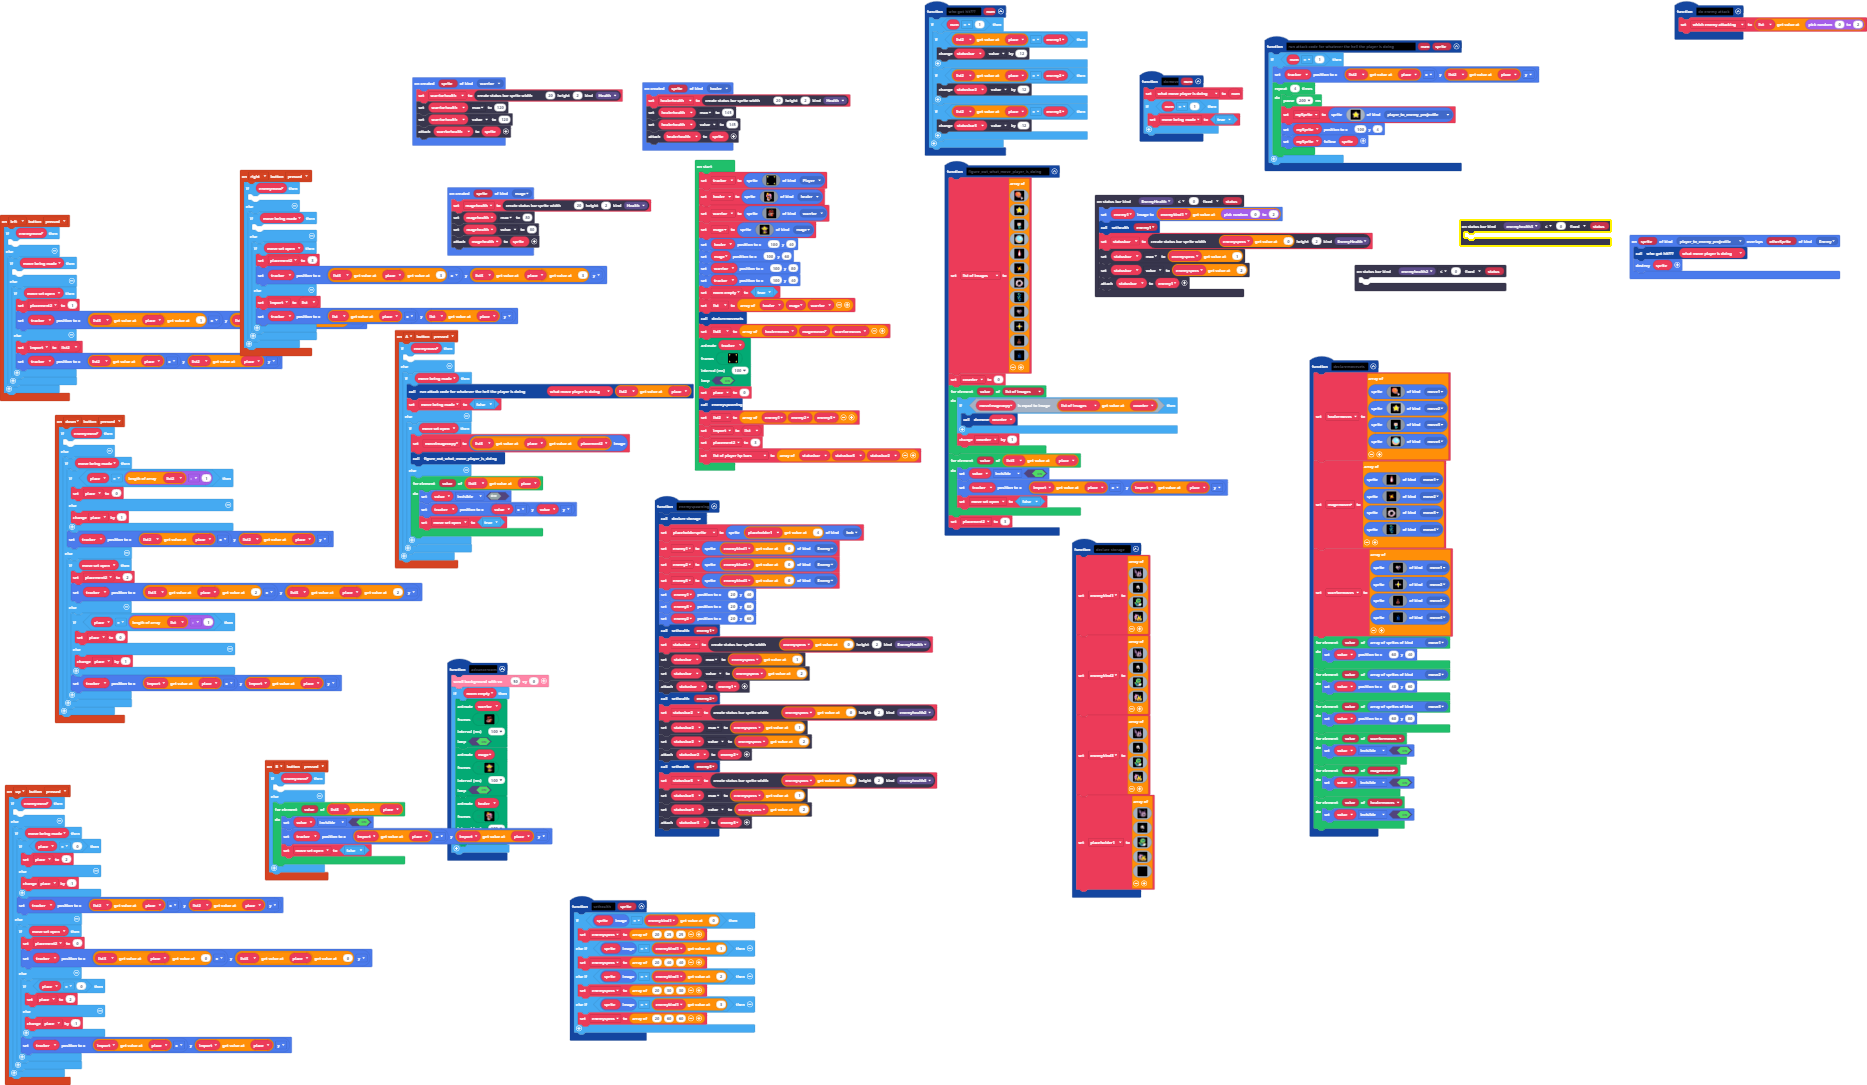
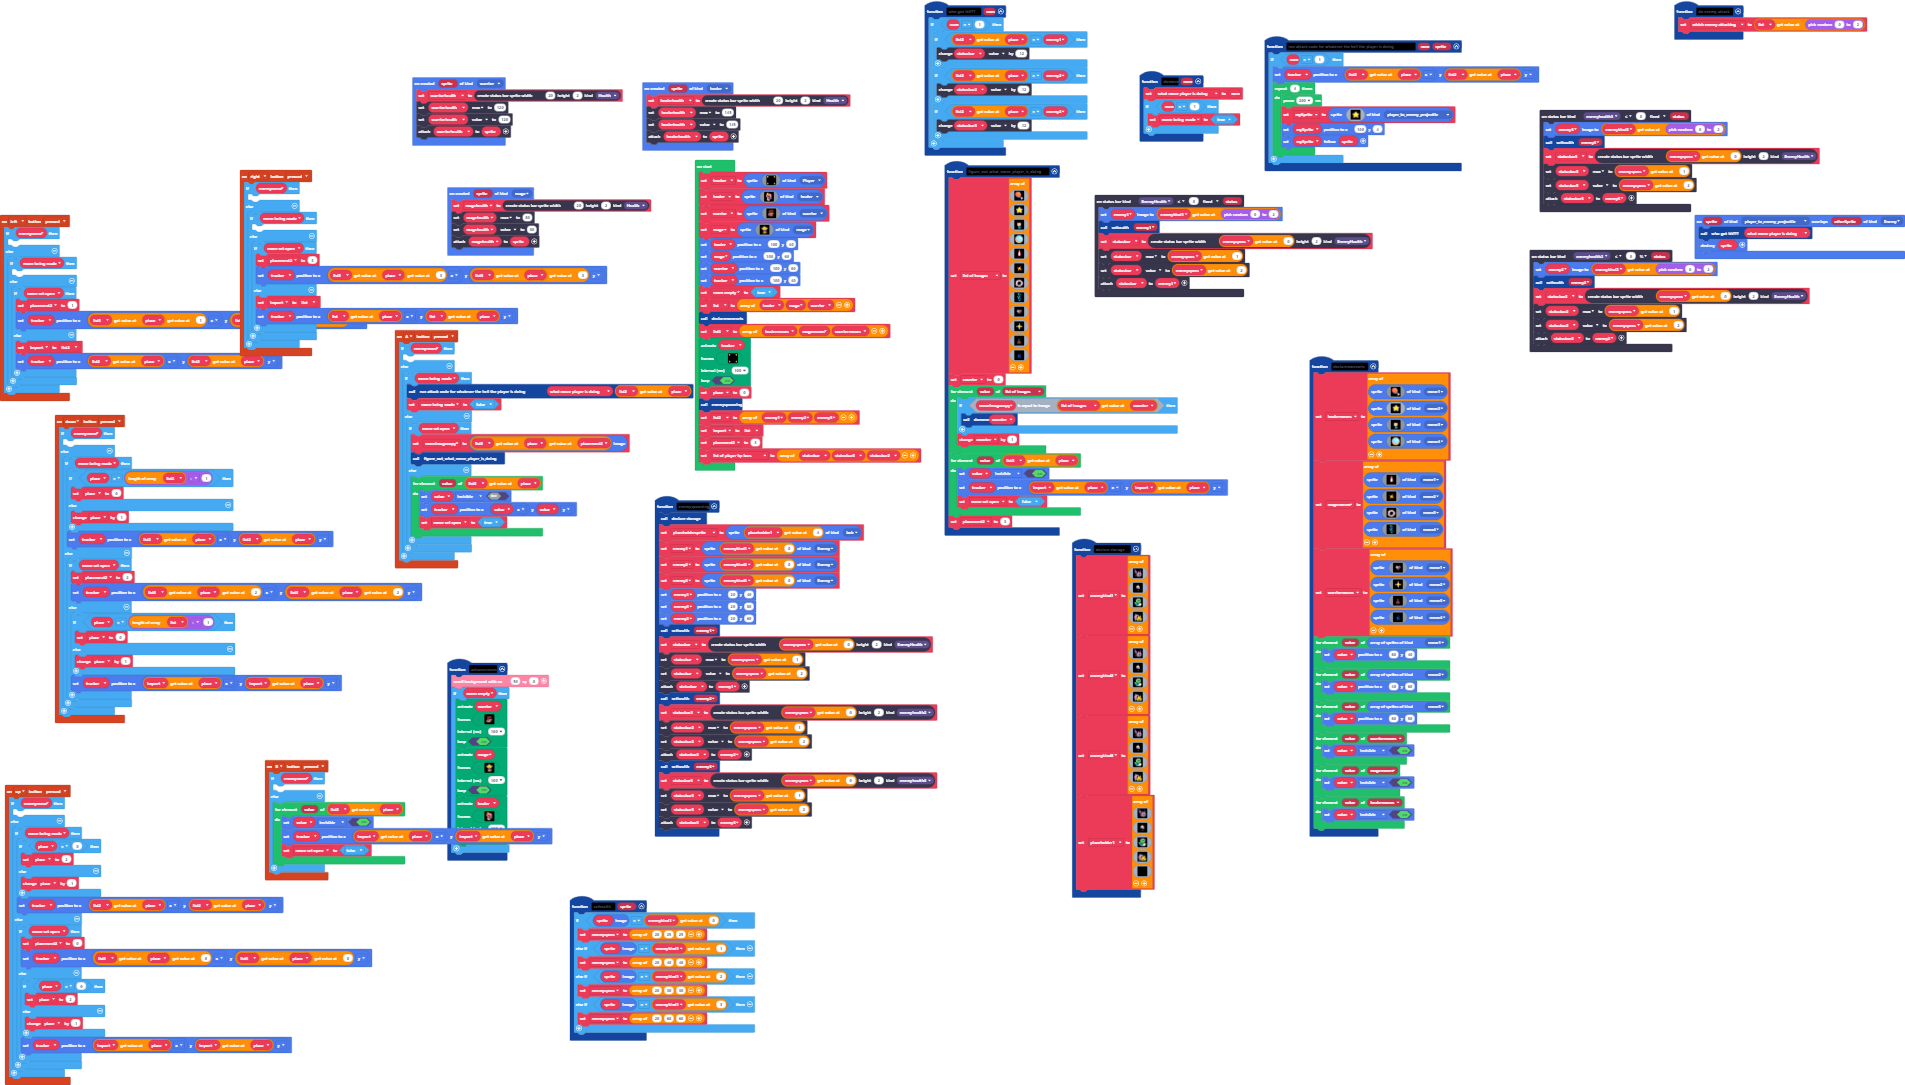
Update main.blocks, main.ts

diff --git a/main.ts b/main.ts
@@ -950,7 +950,12 @@ function who_got_hit (num: number) {
     }
 }
 statusbars.onStatusReached(StatusBarKind.enemyhealth3, statusbars.StatusComparison.LTE, statusbars.ComparisonType.Fixed, 0, function (status) {
-	
+    enemy3.setImage(enemykind3[randint(0, 2)])
+    sethealth(enemy3)
+    statusbar3 = statusbars.create(enemyspecs[0], 2, StatusBarKind.EnemyHealth)
+    statusbar3.max = enemyspecs[1]
+    statusbar3.value = enemyspecs[2]
+    statusbar3.attachToSprite(enemy3)
 })
 function run_attack_code_for_whatever_the_hell_the_player_is_doing (num: number, sprite: Sprite) {
     if (num == 1) {
@@ -1280,9 +1285,6 @@ sprites.onCreated(SpriteKind.mage, function (sprite) {
     magehealth.value = 80
     magehealth.attachToSprite(sprite)
 })
-statusbars.onStatusReached(StatusBarKind.enemyhealth2, statusbars.StatusComparison.LTE, statusbars.ComparisonType.Fixed, 0, function (status) {
-	
-})
 function sethealth (sprite: Sprite) {
     if (sprite.image == enemykind1[0]) {
         enemyspecs = [20, 25, 25]
@@ -1297,6 +1299,14 @@ function sethealth (sprite: Sprite) {
 function do_enemy_attack () {
     which_enemy_attacking = list[randint(0, 2)]
 }
+statusbars.onStatusReached(StatusBarKind.enemyhealth2, statusbars.StatusComparison.LTE, statusbars.ComparisonType.Percentage, 0, function (status) {
+    enemy2.setImage(enemykind2[randint(0, 2)])
+    sethealth(enemy2)
+    statusbar2 = statusbars.create(enemyspecs[0], 2, StatusBarKind.EnemyHealth)
+    statusbar2.max = enemyspecs[1]
+    statusbar2.value = enemyspecs[2]
+    statusbar2.attachToSprite(enemy2)
+})
 let which_enemy_attacking: Sprite = null
 let magehealth: StatusBarSprite = null
 let counter = 0
